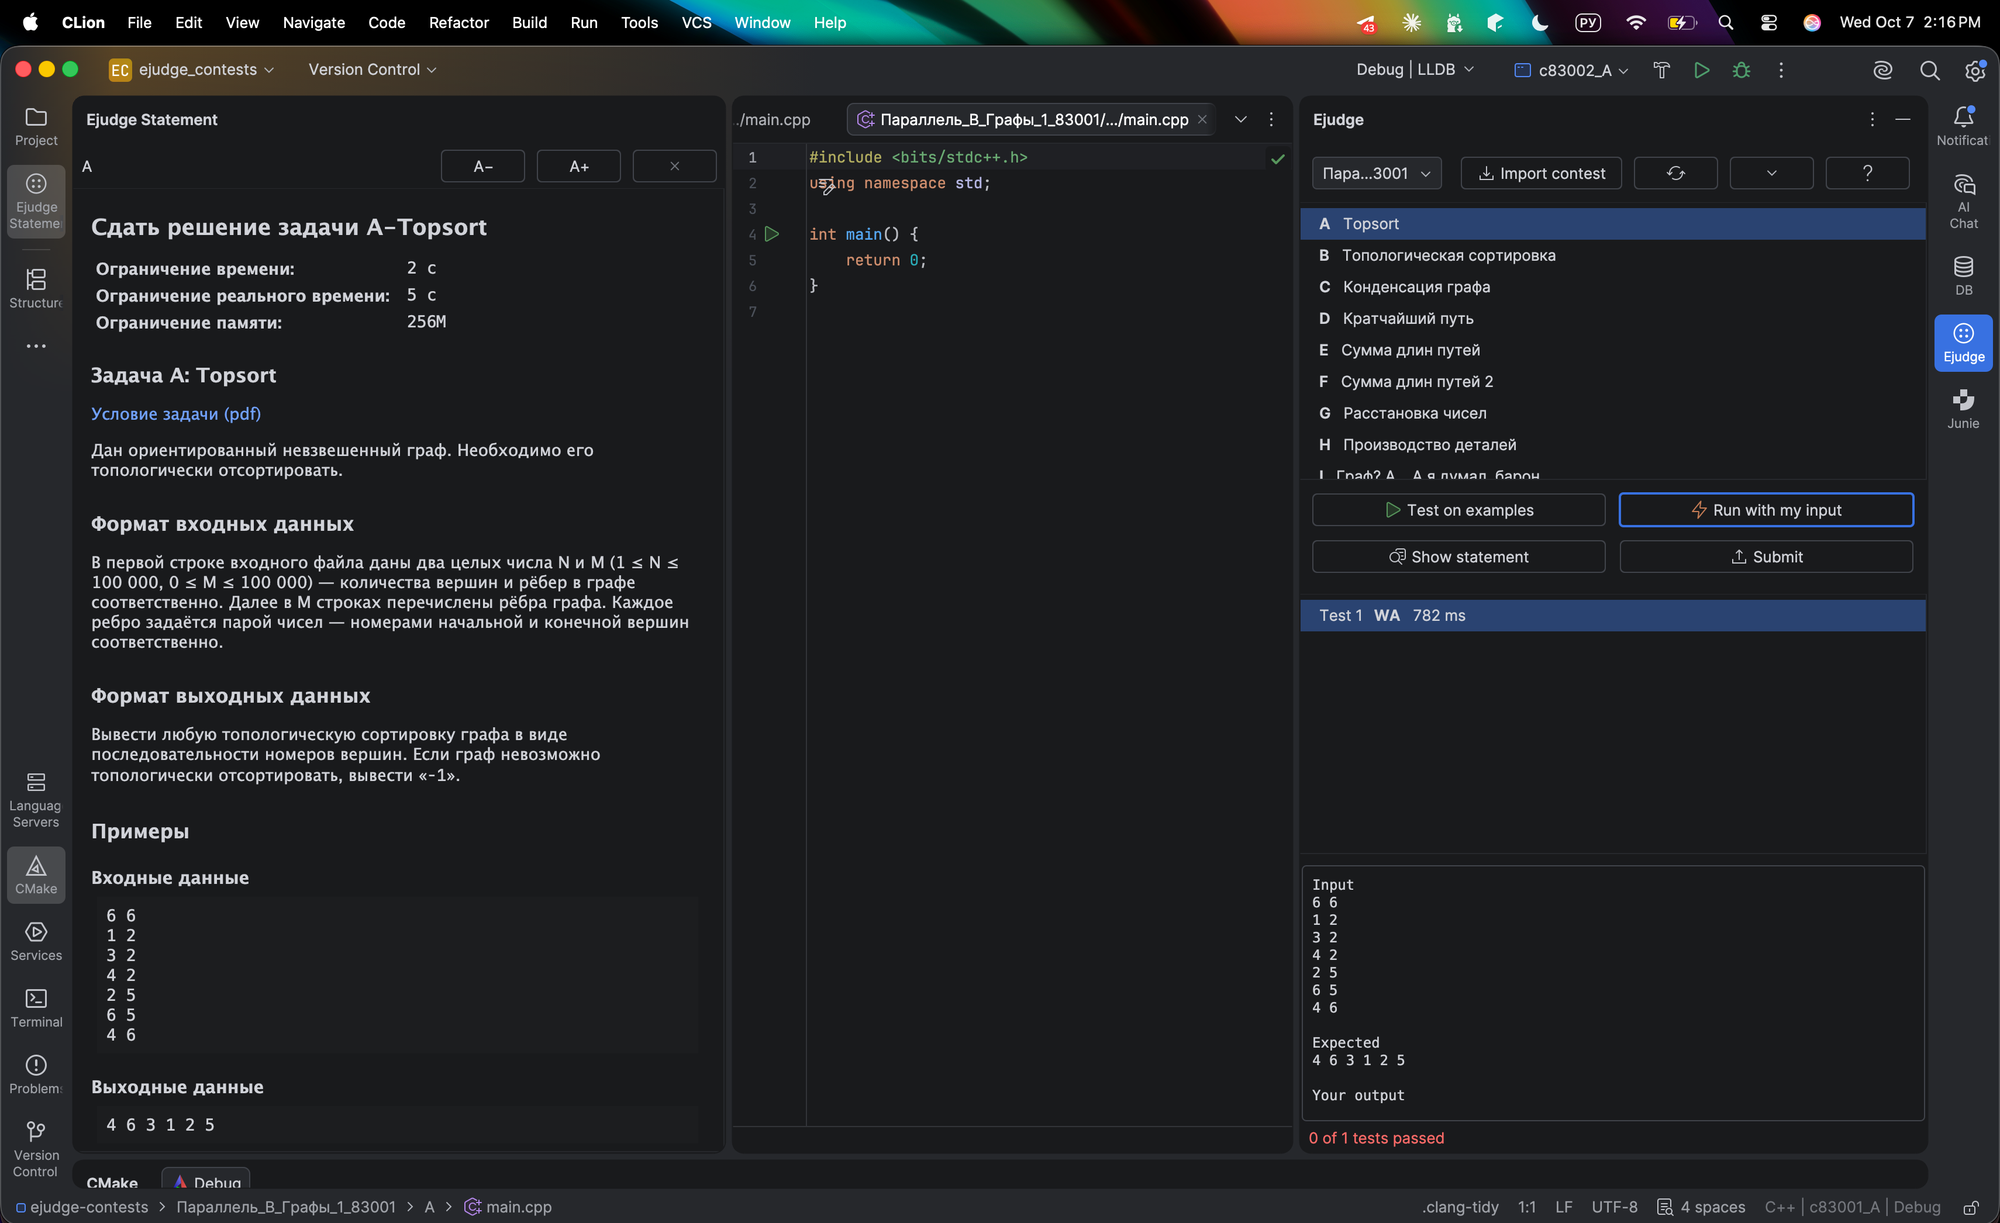
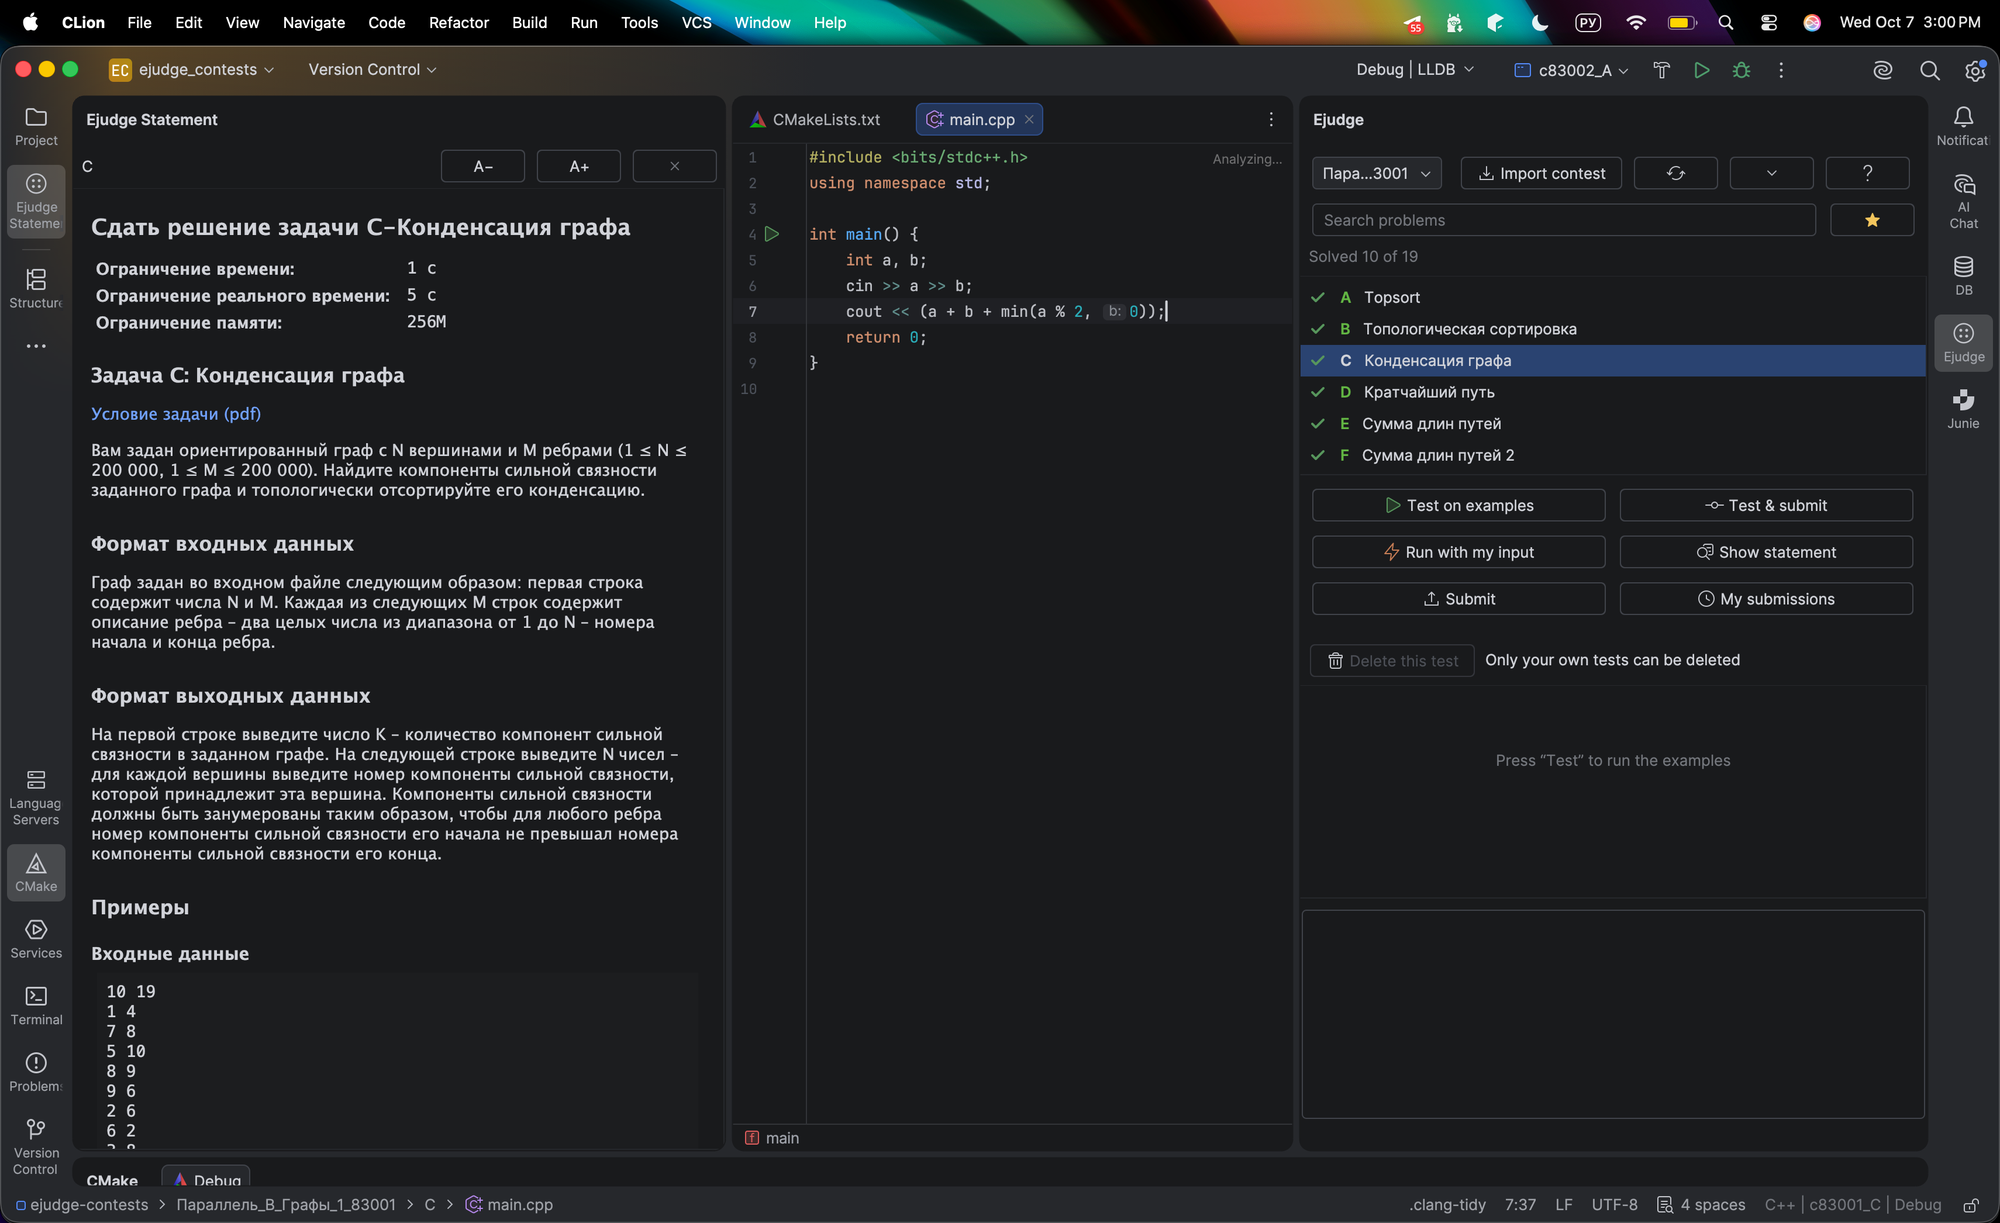
Ejudge page: new screenshot and preview

diff --git a/ejudge-clion/index.html b/ejudge-clion/index.html
@@ -10,7 +10,7 @@
 <meta property="og:title" content="Ejudge для CLion">
 <meta property="og:description" content="Контесты Яндекс Кружка прямо в IDE: условия, тесты и отправка решений. Установок: 2, сегодня запускали: 2.">
 <meta property="og:url" content="https://vmaiorov-collab.github.io/ejudge-clion/">
-<meta property="og:image" content="https://vmaiorov-collab.github.io/ejudge-clion/og-image-v5.png">
+<meta property="og:image" content="https://vmaiorov-collab.github.io/ejudge-clion/og-image-v6.png">
 <meta property="og:image:width" content="1200">
 <meta property="og:image:height" content="630">
 <meta name="twitter:card" content="summary_large_image">
